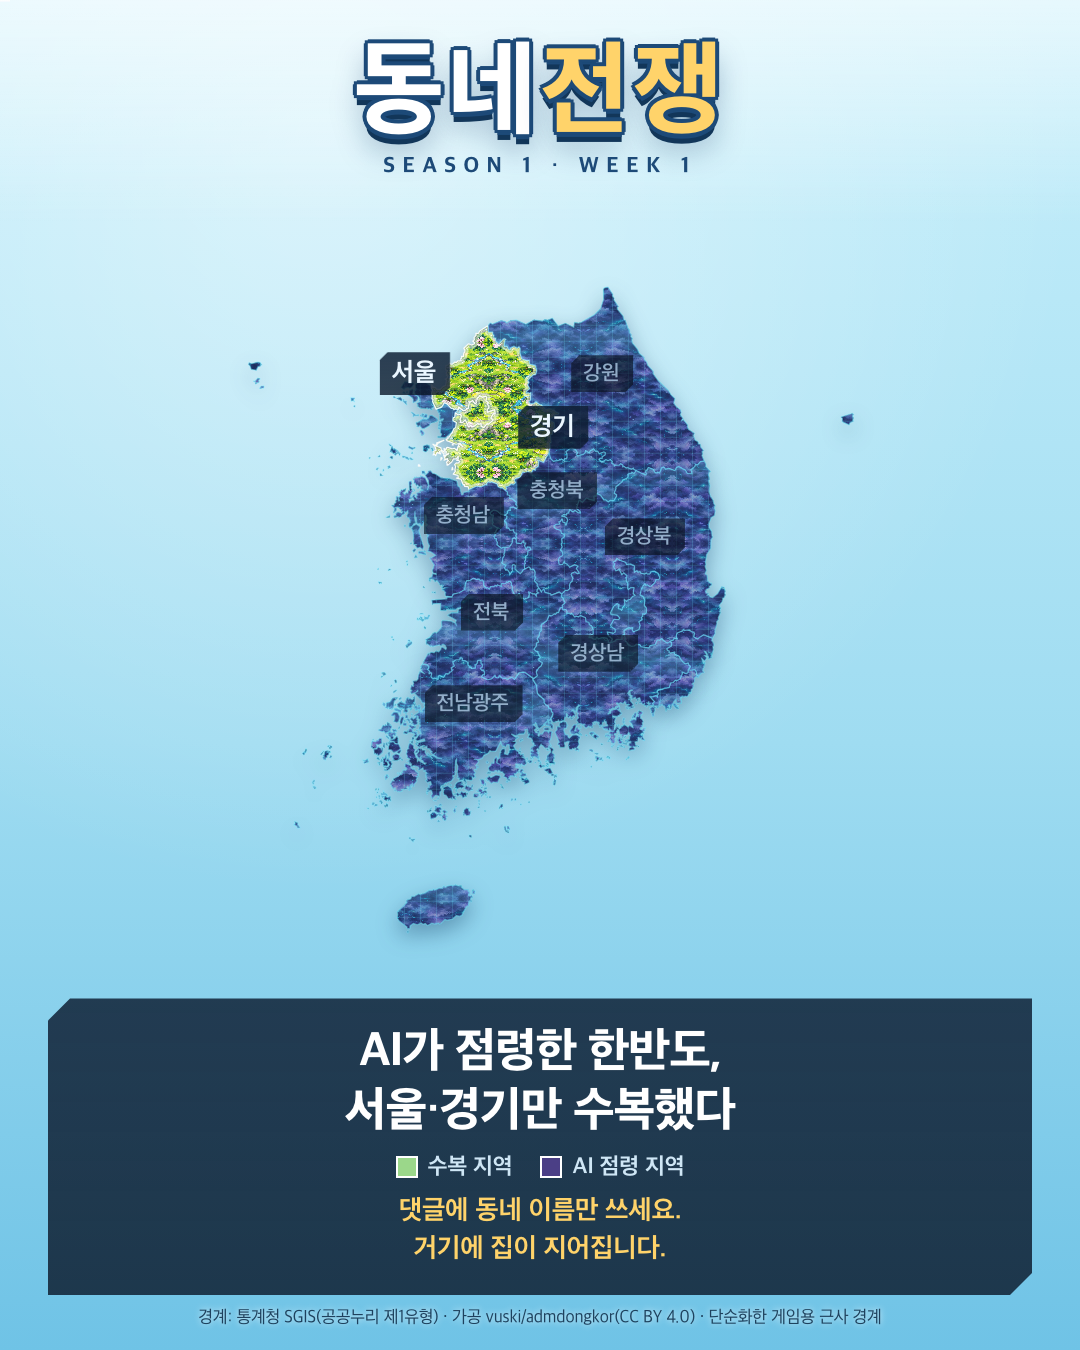
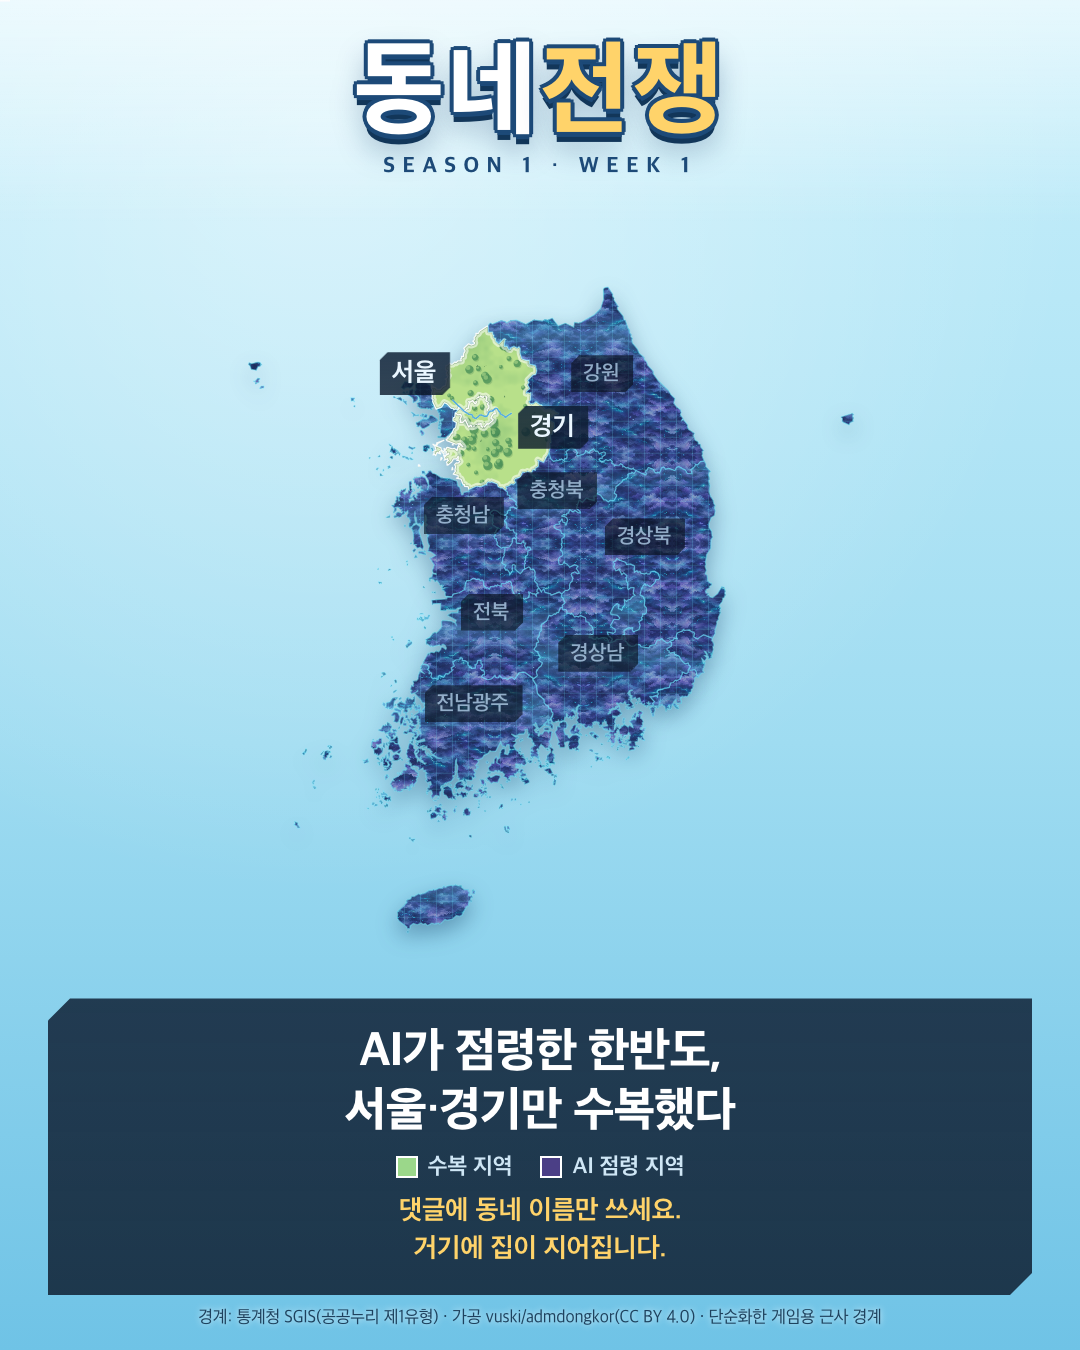
반복 타일 바탕을 지도 전체 한 장짜리 땅 바탕으로 교체

Changed region(s): [[0.3972, 0.2489, 0.5194, 0.3733]]

diff --git a/app.js b/app.js
@@ -20,13 +20,19 @@ function proceduralTile(){const n=256,c=document.createElement('canvas');c.width
   const v=(x,y,s)=>{const f=(a,b)=>{let h=(a*374761393+b*668265263+s*1442695041)|0;h=(h^(h>>>13))*1274126177|0;return((h^(h>>>16))>>>0)/4294967295};
     const xi=Math.floor(x),yi=Math.floor(y),xf=x-xi,yf=y-yi,u=xf*xf*(3-2*xf),w=yf*yf*(3-2*yf);return f(xi,yi)*(1-u)*(1-w)+f(xi+1,yi)*u*(1-w)+f(xi,yi+1)*(1-u)*w+f(xi+1,yi+1)*u*w};
   const im=g.createImageData(n,n);
-  for(let y=0;y<n;y++)for(let x=0;x<n;x++){const a=v(x/28,y/28,1)*.6+v(x/9,y/9,2)*.3+v(x/3,y/3,3)*.1;
-    const c1=[150,214,120],c2=[104,184,100],t=Math.min(1,Math.max(0,(a-.3)*2));const i=(y*n+x)*4;
+  // 초원(밝은 연두) ↔ 숲(짙은 청록) 두 색을 큰 덩어리 노이즈로 섞는다. 돌담·논밭 같은 구체적 무늬는 없다.
+  for(let y=0;y<n;y++)for(let x=0;x<n;x++){const a=v(x/70,y/70,1)*.55+v(x/24,y/24,2)*.3+v(x/7,y/7,3)*.15;
+    const c1=[176,222,128],c2=[74,150,96],t=Math.min(1,Math.max(0,(a-.38)*3));const i=(y*n+x)*4;
     im.data[i]=c1[0]+(c2[0]-c1[0])*t;im.data[i+1]=c1[1]+(c2[1]-c1[1])*t;im.data[i+2]=c1[2]+(c2[2]-c1[2])*t;im.data[i+3]=255}
-  g.putImageData(im,0,0);return c}
+  g.putImageData(im,0,0);
+  for(let i=0;i<46;i++){const x=v(i,1,9)*n,y=v(i,2,8)*n,r=5+v(i,3,7)*6;
+    g.fillStyle='rgba(30,90,60,.22)';g.beginPath();g.ellipse(x+2,y+3,r,r*.7,0,0,7);g.fill();
+    g.fillStyle='rgba(70,140,84,.85)';g.beginPath();g.arc(x,y,r,0,7);g.fill();
+    g.fillStyle='rgba(190,230,140,.5)';g.beginPath();g.arc(x-r*.3,y-r*.35,r*.55,0,7);g.fill()}
+  return c}
 function mirrorTile(img){const w=img.width,h=img.height,c=document.createElement('canvas');c.width=w*2;c.height=h*2;const g=c.getContext('2d');
   g.drawImage(img,0,0);g.save();g.scale(-1,1);g.drawImage(img,-w*2,0);g.restore();g.save();g.scale(1,-1);g.drawImage(img,0,-h*2);g.restore();g.save();g.scale(-1,-1);g.drawImage(img,-w*2,-h*2);g.restore();return c}
-function loadTexture(){return new Promise(res=>{const im=new Image();im.onload=()=>(im.decode?im.decode().catch(()=>{}):Promise.resolve()).then(()=>res(im));im.onerror=()=>res(proceduralTile());im.src='assets/terrain.jpg'})}
+function loadTexture(){return Promise.resolve(proceduralTile());return new Promise(res=>{const im=new Image();im.onload=()=>(im.decode?im.decode().catch(()=>{}):Promise.resolve()).then(()=>res(im));im.onerror=()=>res(proceduralTile());im.src='assets/terrain.jpg'})}
 
 Promise.all([fetch('data/sido.json').then(r=>r.json()),fetch('data/sgg.json').then(r=>r.json()),loadTexture(),new Promise(r=>{const i=new Image();i.onload=()=>r(i);i.onerror=()=>r(null);i.src='assets/ai.jpg'})]).then(([a,b,t,ai])=>{SIDO=a;SGG=b;TEX=mirrorTile(t);TEXAI=ai?mirrorTile(ai):null;init()});
 
@@ -57,7 +63,22 @@ const wx=(x)=>(x*S+OX)/DPR, wy=(y)=>(y*S+OY)/DPR;
 const bc=document.createElement('canvas'),bctx=bc.getContext('2d',{alpha:false});
 let baseDirty=true,PAT=null,PATAI=null,lastFull=0,miniDirty=true;
 window.markBaseDirty=()=>{baseDirty=true};
-const mkPat=()=>{const p=bctx.createPattern(TEX,'repeat');p.setTransform(new DOMMatrix().scale(110/TEX.width));return p};
+let LANDC=null;
+// 반복 타일 없이 지도 전체(월드 좌표)에 한 장으로 깔리는 땅 바탕: 큰 덩어리 노이즈 + 한 번만 뿌린 나무 무리
+function worldLand(){const K=2,W=Math.round(base.w*K)+80,H=Math.round(base.h*K)+80,c=document.createElement('canvas');c.width=W;c.height=H;const g=c.getContext('2d');
+  const hs=(a,b,s)=>{let h=(a*374761393+b*668265263+s*1442695041)|0;h=(h^(h>>>13))*1274126177|0;return((h^(h>>>16))>>>0)/4294967295};
+  const v=(x,y,s)=>{const xi=Math.floor(x),yi=Math.floor(y),xf=x-xi,yf=y-yi,u=xf*xf*(3-2*xf),w=yf*yf*(3-2*yf);return hs(xi,yi,s)*(1-u)*(1-w)+hs(xi+1,yi,s)*u*(1-w)+hs(xi,yi+1,s)*(1-u)*w+hs(xi+1,yi+1,s)*u*w};
+  const im=g.createImageData(W,H),d=im.data;
+  for(let y=0;y<H;y++)for(let x=0;x<W;x++){const a=v(x/260,y/260,1)*.5+v(x/90,y/90,2)*.3+v(x/28,y/28,3)*.15+v(x/8,y/8,4)*.05;
+    const t=Math.min(1,Math.max(0,(a-.36)*2.6)),i=(y*W+x)*4;
+    d[i]=184+(88-184)*t;d[i+1]=224+(160-224)*t;d[i+2]=138+(102-138)*t;d[i+3]=255}
+  g.putImageData(im,0,0);
+  for(let i=0;i<5200;i++){const x=hs(i,1,5)*W,y=hs(i,2,6)*H,r=3+hs(i,3,7)*5,m=v(x/90,y/90,2);if(m<.42&&hs(i,4,8)<.8)continue;
+    g.fillStyle='rgba(40,100,66,.20)';g.beginPath();g.arc(x+1.5,y+2,r,0,7);g.fill();
+    g.fillStyle='rgba(78,148,90,.8)';g.beginPath();g.arc(x,y,r,0,7);g.fill();
+    g.fillStyle='rgba(200,235,150,.45)';g.beginPath();g.arc(x-r*.3,y-r*.35,r*.5,0,7);g.fill()}
+  return{c,K,ox:base.x-40/K,oy:base.y-40/K}}
+const mkPat=()=>{if(!LANDC)LANDC=worldLand();const p=bctx.createPattern(LANDC.c,'no-repeat');p.setTransform(new DOMMatrix().translate(LANDC.ox,LANDC.oy).scale(1/LANDC.K));return p};
 function drawBase(quick){ // quick=true: 이동 애니메이션 중에는 비싼 블러 그림자를 생략
   if(bc.width!==cv.width||bc.height!==cv.height){bc.width=cv.width;bc.height=cv.height}
   const c=bctx,W=bc.width,H=bc.height;if(!PAT){PAT=mkPat();if(TEXAI){PATAI=bctx.createPattern(TEXAI,'repeat');PATAI.setTransform(new DOMMatrix().scale(150/TEXAI.width))}}

diff --git a/index.html b/index.html
@@ -1,7 +1,7 @@
 <!doctype html>
 <html lang="ko"><head><meta charset="utf-8"><meta name="viewport" content="width=device-width,initial-scale=1">
 <title>동네전쟁 지도 시안</title>
-<link rel="stylesheet" href="style.css?v=4"></head><body>
+<link rel="stylesheet" href="style.css?v=6"></head><body>
 <canvas id="cv"></canvas>
 <div id="hud">
   <div class="top">
@@ -24,8 +24,8 @@
   <div class="start"><button class="btn" id="startBtn">게임 시작</button><div class="hintt">화면을 눌러 시작</div></div>
   <div class="ver">SEASON 1 · DEMO</div>
 </div>
-<script src="app.js?v=4"></script>
-<script src="terrain.js?v=4"></script>
-<script src="landmarks.js?v=4"></script>
-<script src="card.js?v=4"></script>
+<script src="app.js?v=6"></script>
+<script src="terrain.js?v=6"></script>
+<script src="landmarks.js?v=6"></script>
+<script src="card.js?v=6"></script>
 </body></html>

diff --git a/terrain.js b/terrain.js
@@ -10,7 +10,7 @@ function drawTerrainFeatures(c,{S,OX,OY,DPR,quick,sel,view,OPEN,SIDO,SGG}){
   const clip=new Path2D();open.forEach(s=>clip.addPath(s.p));
   c.clip(clip,'evenodd');
   // 바탕: 숲·논밭 그림을 옅게 덮어 '도시 근교' 느낌으로 맞추고, 평지에는 시가지 블록을 깐다.
-  c.fillStyle=sel==='11'?'rgba(196,207,170,.9)':'rgba(206,218,182,.6)';c.fill(clip);
+  
   if(sel==='11'||sel==='41')urban(c,pj,SGG.filter(g=>g.sido===sel),sel==='11'?.42:.8,S,OX,OY);
   // 산: 능선을 따라 작은 봉우리를 겹쳐 놓는다(왼쪽 면은 밝게, 오른쪽 면은 어둡게). 위치는 고정 시드라 항상 같다.
   const mounds=[];
